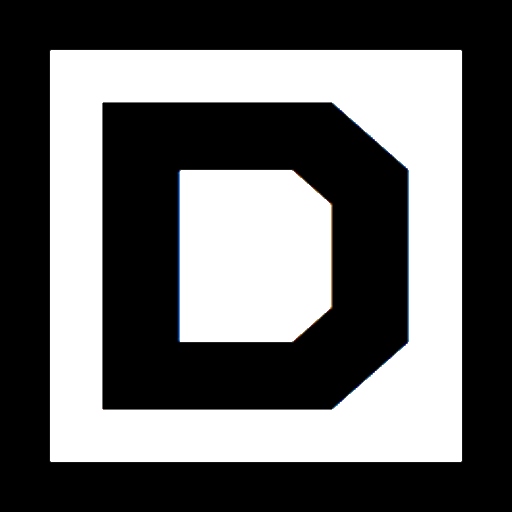
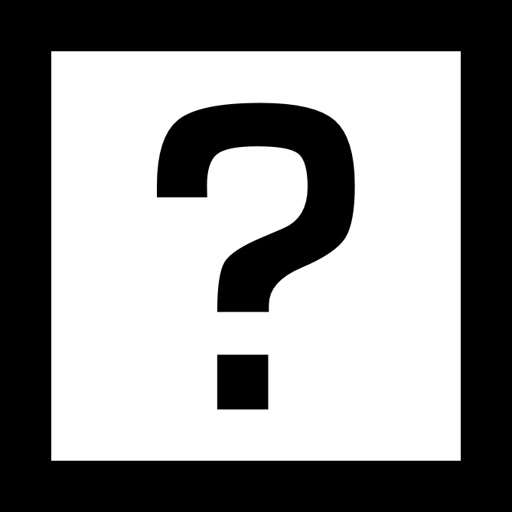
Swapping in "?" on the mat instead of "D", per Kevin's request.

Changed region(s): [[0.1875, 0.1875, 0.8125, 0.8125], [0.0938, 0.0938, 0.9062, 0.9062]]

diff --git a/matlab/makeMatVisionMarkers.m b/matlab/makeMatVisionMarkers.m
@@ -20,6 +20,9 @@ fnames = {'A', 'B', 'C', 'D';
     'K', 'L', 'M', 'Q';
     'P', 'R', 'T', 'Y'};
 fnames = cellfun(@(name)fullfile(matMarkerPath, [name '.png']), fnames, 'UniformOutput', false);
+% Swap in "?" for D
+fnames{1,4} = '~/Box Sync/Cozmo SE/VisionMarkers/symbols/withFiducials/questionMark.png';
+
 angles = zeros(4);
 fidColors = zeros(1,3);
 
